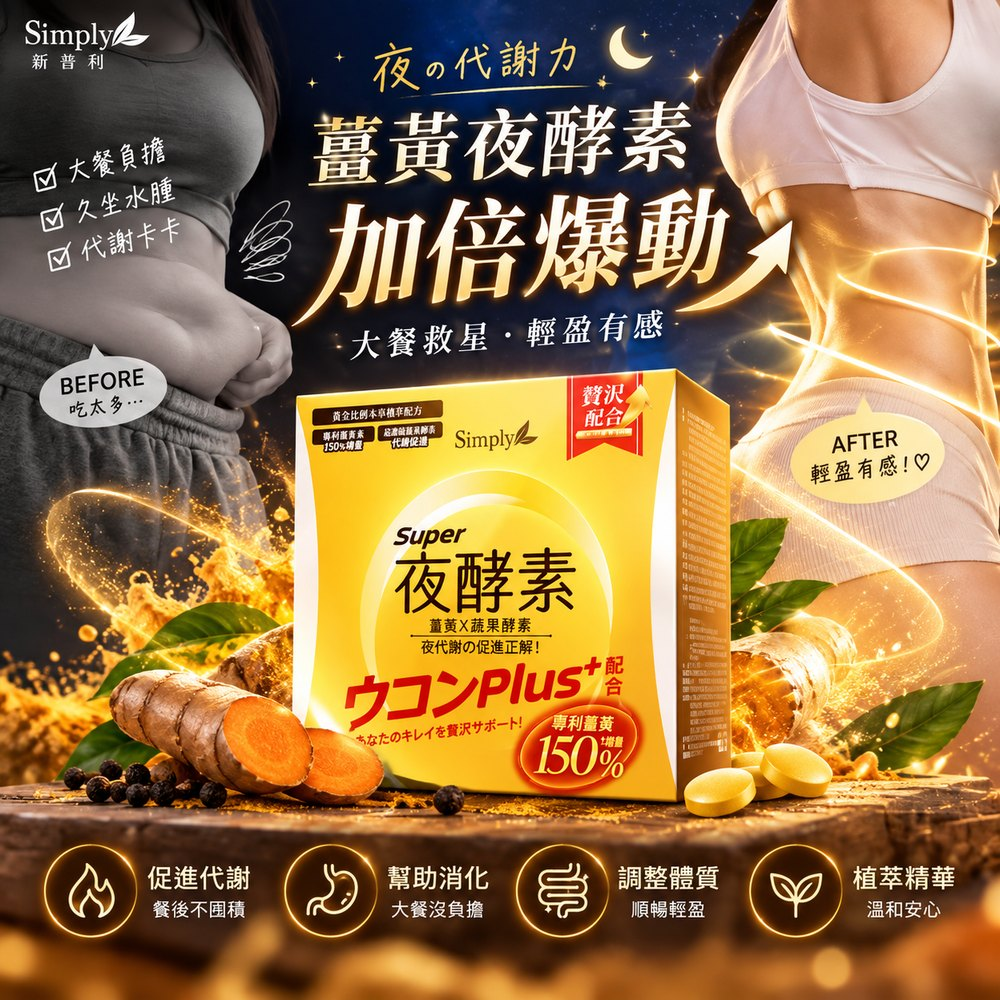
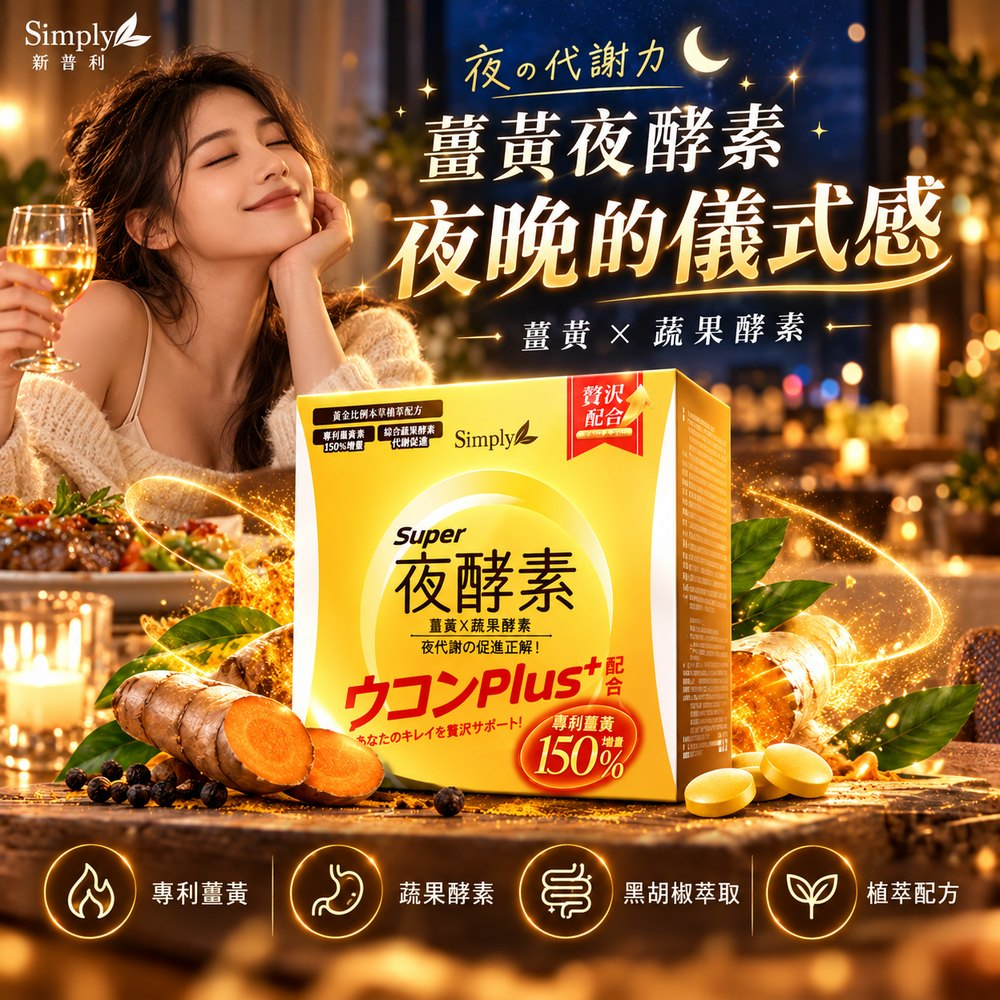
換上極視能、夜酵素合規版圖片

diff --git a/index.html b/index.html
@@ -184,7 +184,7 @@
     const LINE_ADD = "https://lin.ee/9M4i0Vj"; // 香菇綸爸 官方帳號（專屬ID @mushroom131 / 基本ID @507tuqaf）
     const PRODUCTS = [
       // 本月開團（保健營養）⚠ desc 只寫成分／規格／吃法等事實，不寫功效
-      { cat: "本月開團", unit: "盒", name: "Simply 新普利 夜酵素薑黃錠 PLUS+（30錠／盒）", price: 1700, original: 2100, badge: "本月開團", img: "images/n/night.jpg?v=2", note: "專利薑黃・蔬果酵素・睡前 2 錠",
+      { cat: "本月開團", unit: "盒", name: "Simply 新普利 夜酵素薑黃錠 PLUS+（30錠／盒）", price: 1700, original: 2100, badge: "本月開團", img: "images/n/night.jpg?v=3", note: "專利薑黃・蔬果酵素・睡前 2 錠",
         desc: "NEW！新上市，專利薑黃增量 150%。\n睡前 2 顆的夜間保養小儀式，給忙碌又愛美食的你。\n特色：專利薑黃增量 150%、80 種蔬果酵素、GABA＋色胺酸、高濃度胺基酸、睡前食用\n主要成分：專利薑黃萃取、80 種以上綜合蔬果酵素、GABA、L-色胺酸、綜合必需胺基酸、益生菌。\n規格：0.75g × 30 錠／盒｜台灣製造｜奶素\n食用方式：每日睡前 2 錠，配合開水食用。\n孕婦、哺乳婦、服用藥物或有疾病者，請先諮詢醫師或藥師。" },
       { cat: "本月開團", unit: "盒", name: "Double Berry 漫悅莓素食膠囊（60粒／盒）", price: 3280, original: 4800, badge: "本月開團", img: "images/n/berry.jpg?v=2", note: "蔓越莓・洛神花萼・專利益生菌・全素",
         desc: "女生的每日莓好，蔓越莓 × 洛神花，每天一顆。\n雙重蔓越莓萃取，前花青素 A 高達 48mg／顆，搭配法國專利洛神花萼與女性專利益生菌。\n特色：雙重蔓越莓萃取、前花青素 A 48mg／顆、法國專利洛神花萼、SynForU™ 專利益生菌、全素可食\n主要成分：CystiCran®40 與 CranPure® 雙重蔓越莓萃取、洛神花萼萃取、SynForU™-HerCare 益生菌、透納葉萃取。\n規格：500mg × 60 粒／盒｜台灣製造｜全素可食\n食用方式：每日 1～2 次，每次 1 粒，配冷溫開水，飯前飯後皆可。" },
@@ -211,7 +211,7 @@
         desc: "網紅名人圈熱銷爆品，忙碌生活時的補給靈感。\n特色：零糖、無酒精、低咖啡因、香檳風味、人參葉＋神仙菜萃取\n主要成分：異麥芽寡醣、牛磺酸、蘋果醋、紅葡萄果汁、人參葉萃取、神仙菜萃取、維生素 B2／B6／B12。\n規格：235ml × 24 瓶／箱｜台灣製造\n食用方式：每日 1 瓶，冷飲風味更佳。孩童、孕婦及哺乳婦女不宜飲用。" },
       { cat: "本月開團", unit: "桶", name: "BoomCa+ 彈力支點 每日鈣補給軟糖（60顆桶裝・葡萄口味）", price: 1590, original: 2480, badge: "本月開團", img: "images/n/boomca.jpg?v=2", note: "每顆 125mg 鈣＋D3・K2・CPP・6 歲以上",
         desc: "好吃的鈣，每天一顆！把日常補鈣變成更容易持續的小習慣。\n特色：每顆 125mg 鈣、維生素 D3＋K2＋CPP、葡萄口味、好咀嚼軟糖、6 歲以上全家適用\n規格：3.7g × 60 顆／桶｜台灣製造｜葷食\n食用方式：孩童每日 2 顆、成人每日 4 顆，請咀嚼食用，勿直接吞食。" },
-      { cat: "本月開團", unit: "罐", name: "Double Power Super i 極視能葉黃素光漾素食膠囊（180顆／罐）", price: 11800, original: 19800, badge: "本月開團", img: "images/n/superi.jpg?v=2", note: "葉黃素・180 顆大罐裝・素食膠囊",
+      { cat: "本月開團", unit: "罐", name: "Double Power Super i 極視能葉黃素光漾素食膠囊（180顆／罐）", price: 11800, original: 19800, badge: "本月開團", img: "images/n/superi.jpg?v=3", note: "葉黃素・180 顆大罐裝・素食膠囊",
         desc: "3C 生活的每日營養補給，大罐裝一次備齊。\n規格：180 顆／罐｜素食膠囊\n食用方式：依包裝建議份量，配開水食用。" },
       { cat: "本月開團", unit: "條", name: "Beauty Style 不油自主 油切發泡錠", price: 640, original: 1380, badge: "本月開團", img: "images/n/nooil.jpg?v=2", note: "發泡錠・隨身好攜帶",
         desc: "享受美味 不用想太多，隨身攜帶的發泡錠。\n規格：發泡錠｜條狀管裝好攜帶\n食用方式：依包裝建議，以冷（溫）水沖泡溶解後飲用，請勿直接吞食。" },
